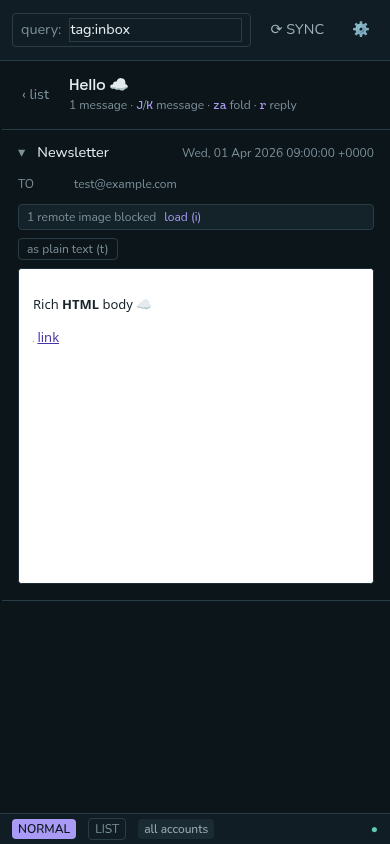
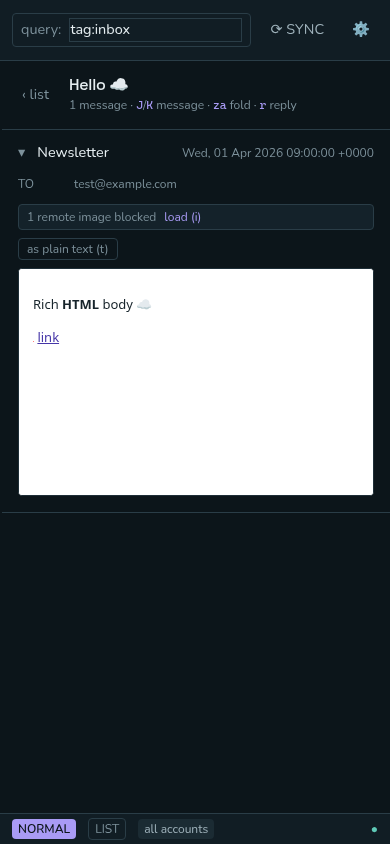
Sent mail is what you sent, and search starts where you are
The SENT view matched `tag:sent`, which the post-new hook applies only to
messages filed in a folder it recognises: three messages out of 23k. Matching
on the From address instead finds 1066, and combines across accounts for the
All group. Falls back to the tag when an account has no known address.

`/` now opens on the current mailbox's query, selected. Prefilling was reverted
once because the next keystroke appended (`tag:inboxtag:flagged`); selecting the
text is what makes it safe, and verify-live asserts both halves.

Changed region(s): [[0.0308, 0.5853, 0.9846, 0.7085]]

diff --git a/web/src/state/views.ts b/web/src/state/views.ts
@@ -48,16 +48,38 @@ export function viewQuery(name: string, account: string): string | null {
   return template ? scopeQuery(template.query, account) : null;
 }
 
+/**
+ * Sent mail is what you sent, not what a hook happened to tag. Matching on the
+ * From address catches mail sent from any client, and mail filed anywhere.
+ * Without a known address there is nothing better than the tag.
+ */
+function sentQuery(account: string, addresses: string[]): string {
+  if (addresses.length === 0) return scopeQuery("tag:sent", account);
+  return addresses.map((a) => `from:${a}`).join(" or ");
+}
+
 export function buildTree(accounts: AccountLike[]): ViewGroup[] {
-  const group = (account: string, address: string | null): ViewGroup => ({
+  const addressOf = (a: AccountLike) => a.address?.trim() ?? "";
+  const everyAddress = accounts.map(addressOf).filter(Boolean);
+
+  const group = (account: string, addresses: string[]): ViewGroup => ({
     account,
-    address,
-    views: VIEW_TEMPLATES.map((v) => ({ name: v.name, query: scopeQuery(v.query, account) })),
+    address: addresses[0] ?? null,
+    views: VIEW_TEMPLATES.map((v) => ({
+      name: v.name,
+      query:
+        v.name === "SENT"
+          ? sentQuery(account, addresses)
+          : scopeQuery(v.query, account),
+    })),
   });
 
   return [
-    group(ALL_ACCOUNTS, null),
-    ...accounts.map((a) => group(a.id, a.address ?? null)),
+    group(ALL_ACCOUNTS, everyAddress),
+    ...accounts.map((a) => {
+      const address = addressOf(a);
+      return group(a.id, address ? [address] : []);
+    }),
   ];
 }
 

diff --git a/web/src/state/views.test.ts b/web/src/state/views.test.ts
@@ -116,3 +116,35 @@ describe("which account a query belongs to", () => {
     expect(accountLabel("tag:mainframe", ACCOUNTS)).toBe(ALL_ACCOUNTS);
   });
 });
+
+describe("the sent view", () => {
+  it("matches what you sent, not what a hook happened to tag", () => {
+    const main = buildTree(ACCOUNTS).find((g) => g.account === "main")!;
+    expect(main.views.find((v) => v.name === "SENT")!.query).toBe(
+      "from:alice@example.com",
+    );
+  });
+
+  it("combines every address for the all-accounts group", () => {
+    const all = buildTree(ACCOUNTS)[0]!;
+    expect(all.views.find((v) => v.name === "SENT")!.query).toBe(
+      "from:alice@example.org or from:alice@example.com or from:alice.personal@example.com",
+    );
+  });
+
+  it("falls back to the tag when an account has no address", () => {
+    const tree = buildTree([{ id: "orphan" }]);
+    const orphan = tree.find((g) => g.account === "orphan")!;
+    expect(orphan.views.find((v) => v.name === "SENT")!.query).toBe("(tag:sent) and (tag:orphan)");
+  });
+
+  it("falls back for all-accounts when no address is known", () => {
+    const all = buildTree([{ id: "orphan" }])[0]!;
+    expect(all.views.find((v) => v.name === "SENT")!.query).toBe("tag:sent");
+  });
+
+  it("leaves the other views alone", () => {
+    const main = buildTree(ACCOUNTS).find((g) => g.account === "main")!;
+    expect(main.views.find((v) => v.name === "INBOX")!.query).toBe("(tag:inbox) and (tag:main)");
+  });
+});

diff --git a/web/src/ui/Palette.tsx b/web/src/ui/Palette.tsx
@@ -54,7 +54,13 @@ export function Palette(props: { store: AppStore }) {
   );
 
   createEffect(() => {
-    if (active()) queueMicrotask(() => input?.focus());
+    if (!active()) return;
+    queueMicrotask(() => {
+      input?.focus();
+      // Selected, not just placed: typing replaces the prefilled query, while
+      // End or an arrow key keeps it to edit.
+      input?.select();
+    });
   });
 
   createEffect(() => {
@@ -127,6 +133,7 @@ export function Palette(props: { store: AppStore }) {
             <span class="text-obligation">{prefix()}</span>
             <input
               ref={input}
+              data-palette
               aria-label={searching() ? "search query" : "command"}
               class="w-full border-0 bg-transparent p-0 text-ink outline-none"
               placeholder={searching() ? "notmuch query, e.g. tag:unread and from:alice" : "command"}

diff --git a/web/src/App.tsx b/web/src/App.tsx
@@ -304,10 +304,11 @@ export function App() {
         store.setMode("command");
         break;
       case "enterSearch":
-        // Starts empty, like vim's `/`. Pre-filling with the current query
-        // means the next keystroke appends to it instead of replacing it.
+        // Prefilled with the mailbox's own query so it can be refined rather
+        // than retyped. The palette selects it on open, so the first keystroke
+        // still replaces — that selection is what makes prefilling safe.
         store.setMode("search");
-        store.setPalette("");
+        store.setPalette(store.query());
         break;
       case "help":
         setShowHelp(true);
